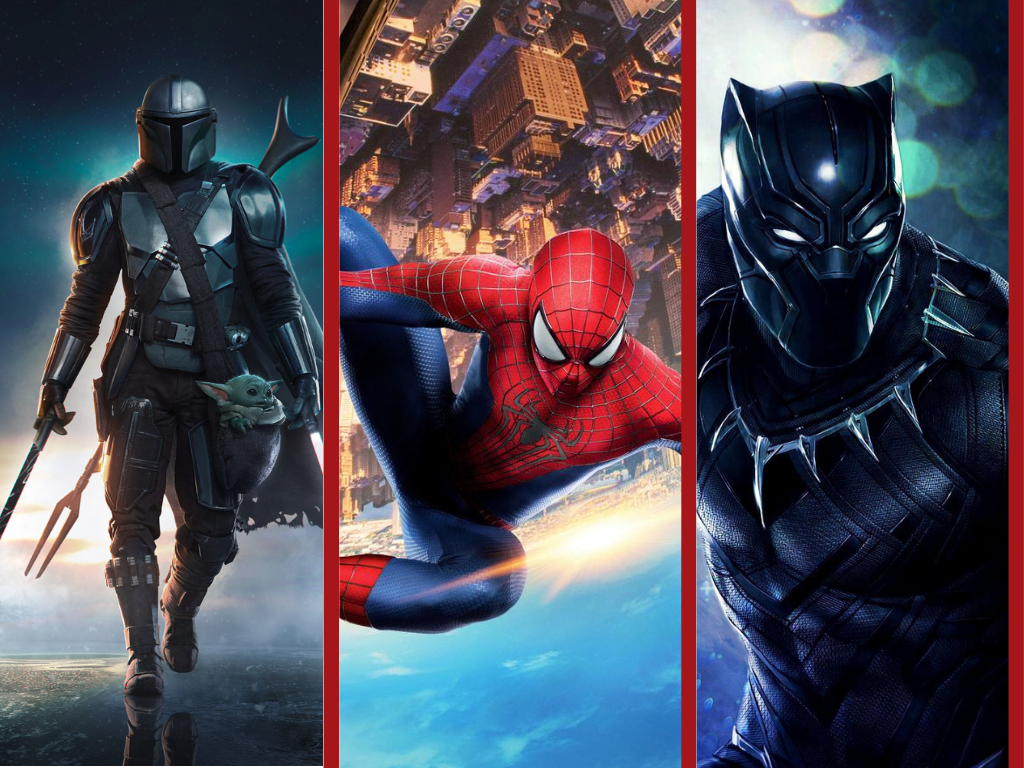
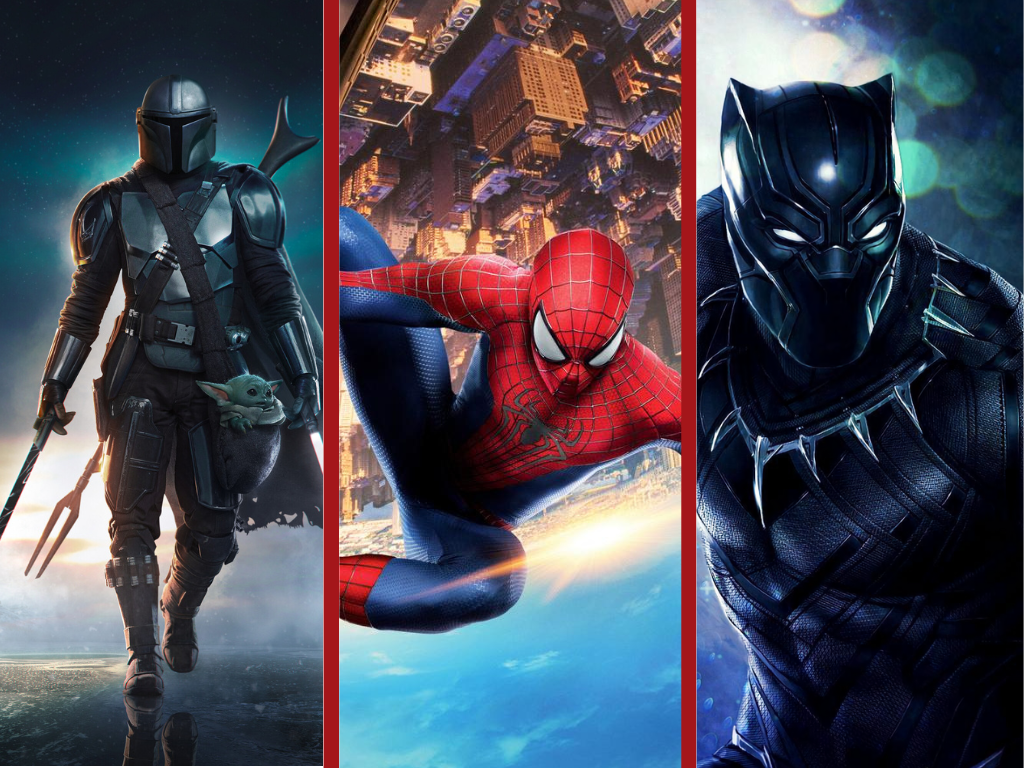
Virtual Cine

Changed region(s): [[0.9688, 0.0, 1.0, 1.0]]

diff --git a/telaInicial/novaTelaInicial.html b/telaInicial/novaTelaInicial.html
@@ -98,6 +98,7 @@
                 <ol class="carousel-indicators">
                     <li data-target="#carouselExampleIndicators" data-slide-to="0" class="active"></li>
                     <li data-target="#carouselExampleIndicators" data-slide-to="1"></li>
+                    <li data-target="#carouselExampleIndicators" data-slide-to="2"></li>
                 </ol>
                 <div class="carousel-inner">
                   <div class="carousel-item active">
@@ -105,6 +106,9 @@
                   </div>
                   <div class="carousel-item">
                     <img class="d-block w-100" src="../img/Virtual Cine 2.png" alt="">
+                  </div>
+                  <div class="carousel-item">
+                    <img class="d-block w-100" src="../img/Virtual Cine 3.png" alt="">
                   </div>
                 </div>
                 <a class="carousel-control-prev" href="#carouselExampleSlidesOnly" role="button" data-slide="prev">

diff --git a/telaInicial/novaTelaInicial.css b/telaInicial/novaTelaInicial.css
@@ -257,7 +257,7 @@ a{
     overflow: hidden;
     
 }
-.contentMetade2{z-index: -2;
+.contentMetade2{z-index: 2;
     display: flex;
     flex-direction: row;
 } 
